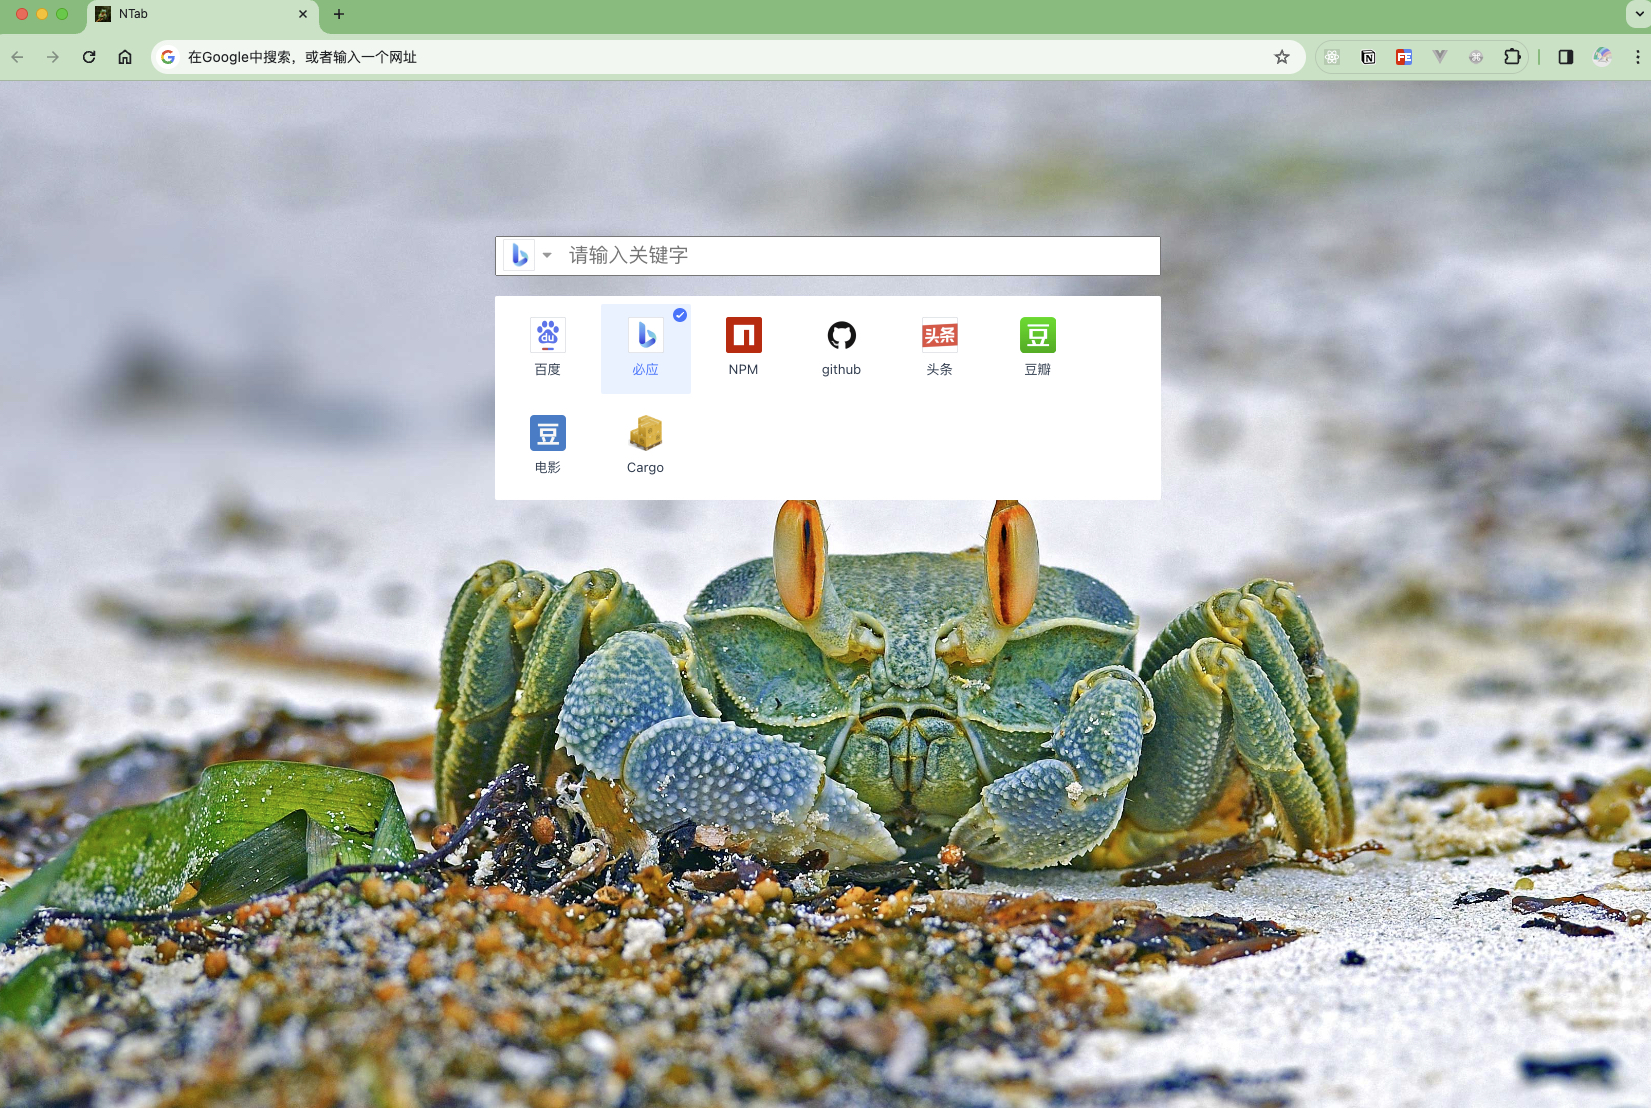
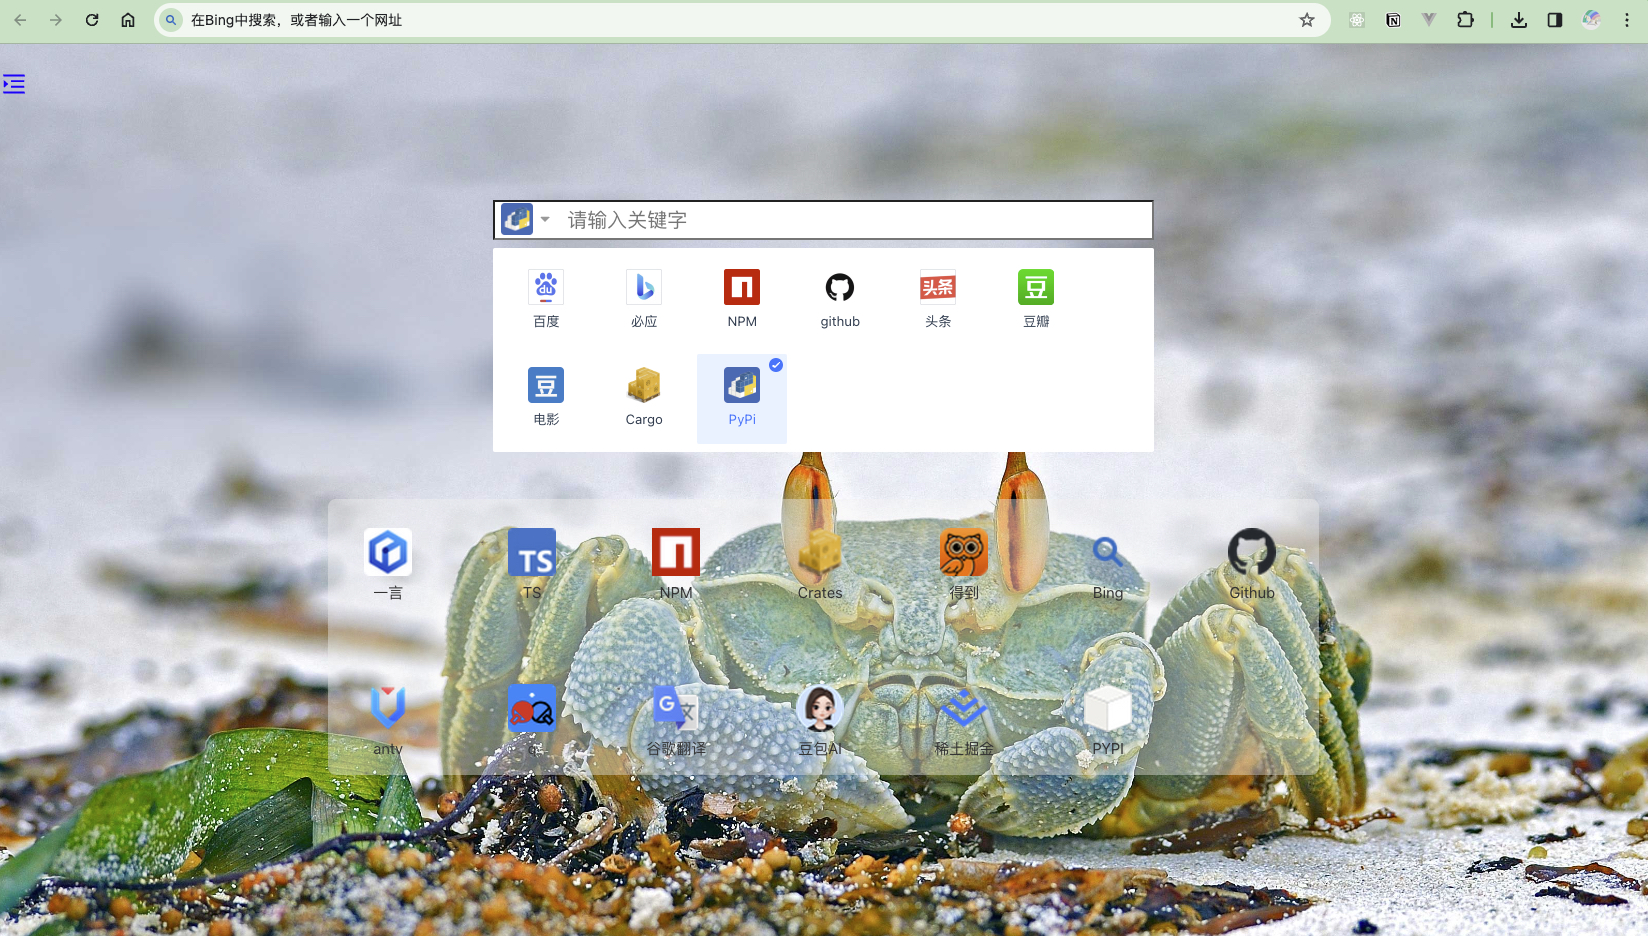
[feat] add pypi searcher

diff --git a/src/views/home/HomeView.vue b/src/views/home/HomeView.vue
@@ -71,6 +71,7 @@ import toutiao from "./../../assets/search/logo-toutiao.png";
 import douban from "./../../assets/search/logo-douban.png";
 import movie from "./../../assets/search/logo-douban-movie.png";
 import cargo from "./../../assets/search/logo-cargo.png";
+import pypi from "./../../assets/search/logo-pypi.png";
 import WebNavi from './WebNavi.vue'
 import BookMarks from "./BookMarks.vue";
 
@@ -136,6 +137,12 @@ const engineList = ref<Engine[]>([
     img: cargo,
     target: `https://crates.io/search?q=`,
     id: "cargo",
+  },
+  {
+    name: "PyPi",
+    img: pypi,
+    target: `https://pypi.org/search/?q=`,
+    id: "pypi",
   },
 ]);
 let currentEngine = computed(() => {
